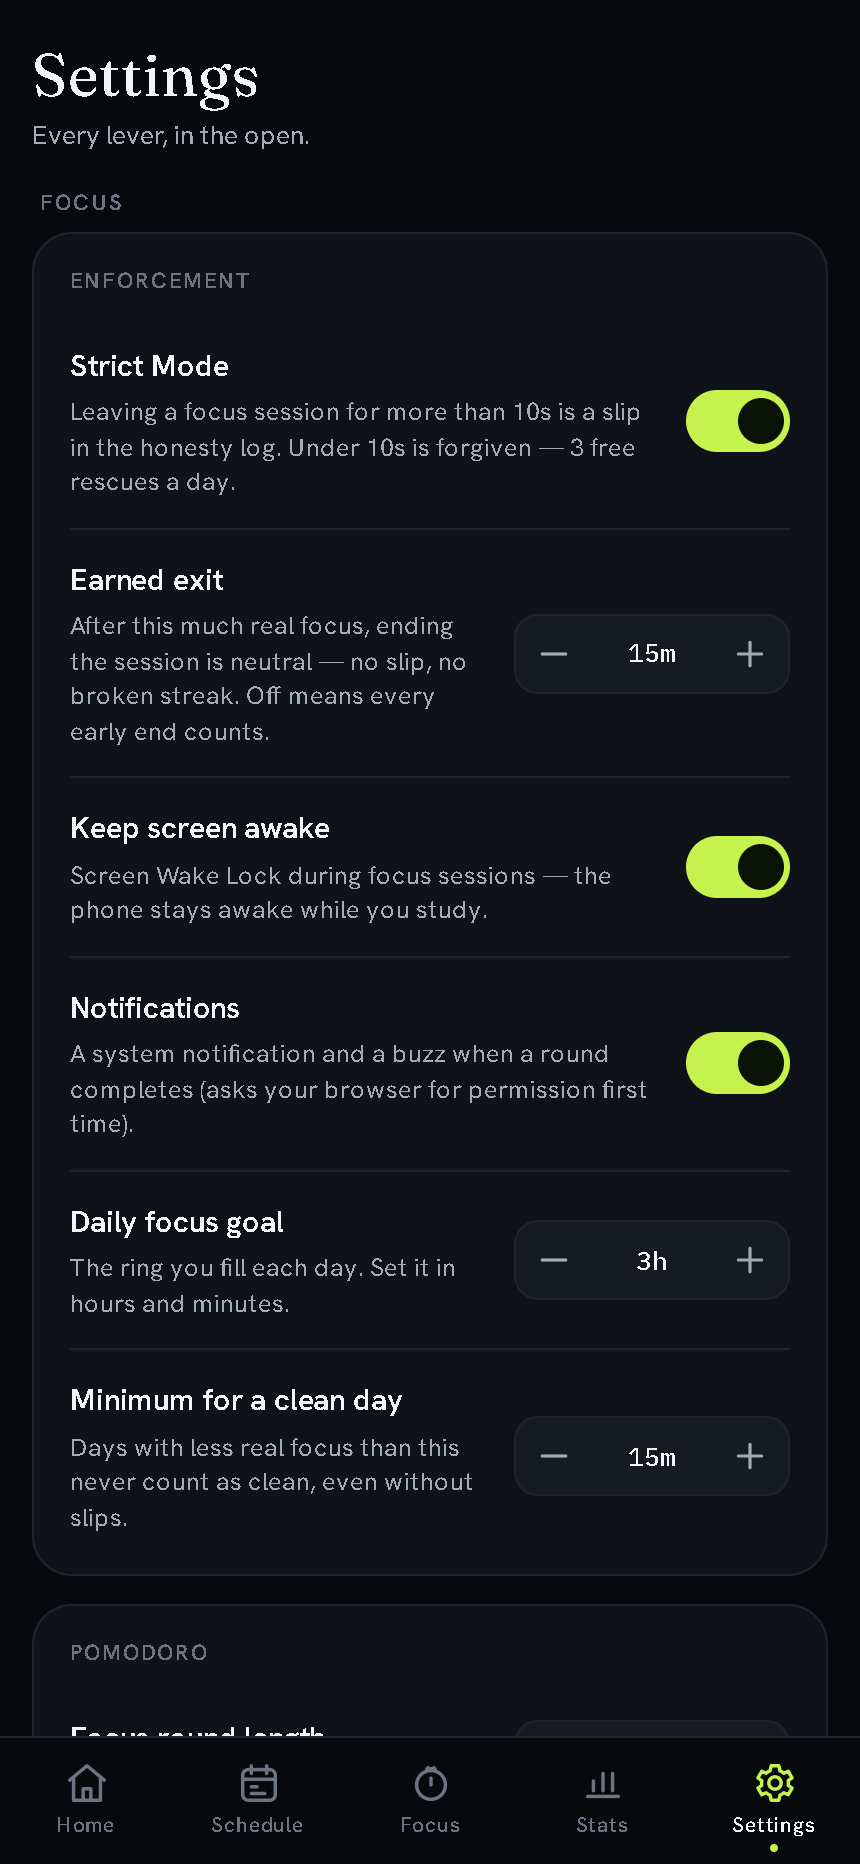
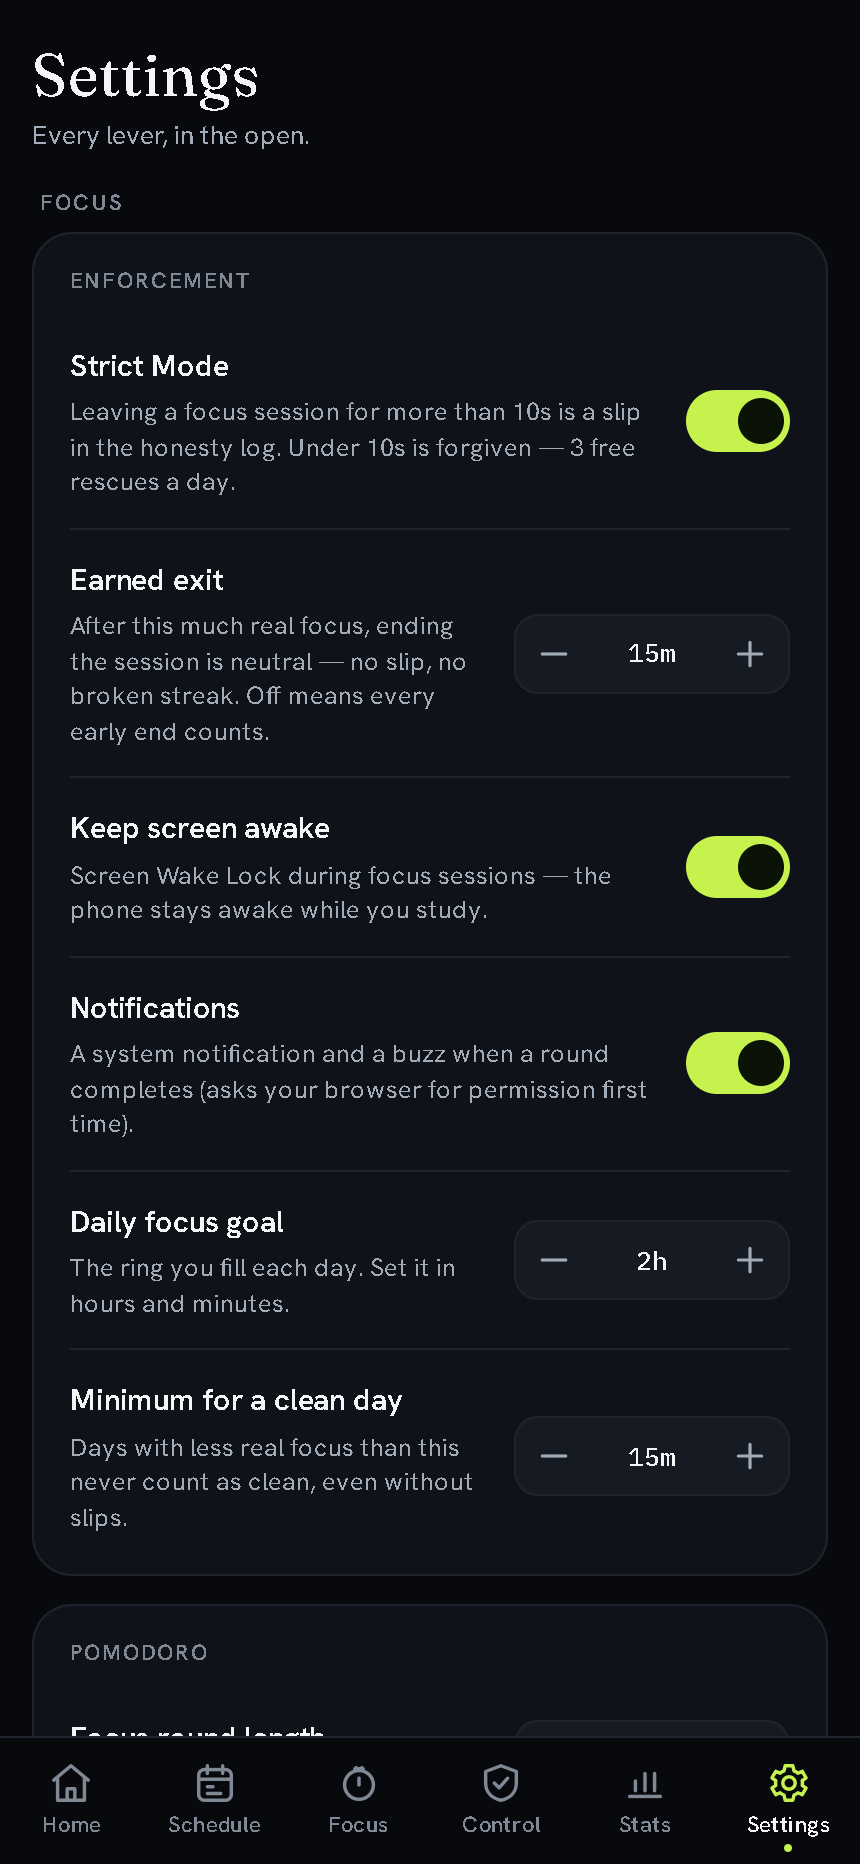
Refresh screenshots for 1.11 and quiet the heading focus ring (plan 6)

diff --git a/app/assets/css/app.css b/app/assets/css/app.css
@@ -172,6 +172,10 @@ body {
 
 h1, h2, h3, p { margin: 0; }
 
+/* Headings we focus after a route or scene change are not tab stops. The new
+   screen is the cue; a giant outline box around an h1 is just noise. */
+[tabindex='-1']:focus { outline: none; }
+
 input, textarea, select { font-size: 16px; } /* never zooms the page on iOS */
 
 button, a, [role='button'], .chip, .tappable {

diff --git a/README.md b/README.md
@@ -53,6 +53,8 @@ The web app is the source of truth for a study session. The extension is deliber
 | Home | Schedule |
 |---|---|
 | <img src="docs/screenshots/home.png" width="260" alt="Home: days left, today's focus and the next block"> | <img src="docs/screenshots/schedule.png" width="260" alt="Schedule: next block hero, 24-hour ring, today's blocks and tasks"> |
+| **Study Mode** | **Control** |
+| <img src="docs/screenshots/focus.png" width="260" alt="Study Mode: the running room with its clock ring, daily-target meter, attached tasks, strict kiosk dock and quit control"> | <img src="docs/screenshots/control.png" width="260" alt="Control: accessibility service status, the blocking switch and the app picker"> |
 | **Stats** | **Settings** |
 | <img src="docs/screenshots/stats.png" width="260" alt="Stats: goal ring, all-time focus, 7-day bars and clean-day heatmap"> | <img src="docs/screenshots/settings.png" width="260" alt="Settings: enforcement, earned exit, goals and schedule alarms"> |
 
